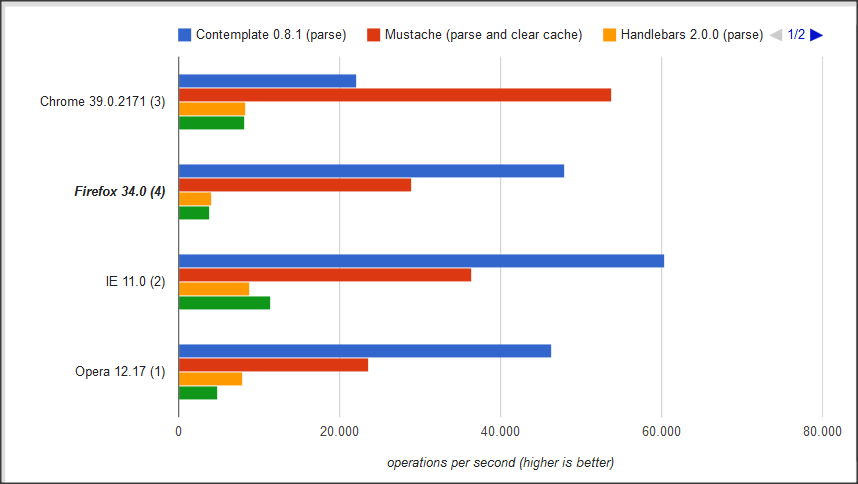
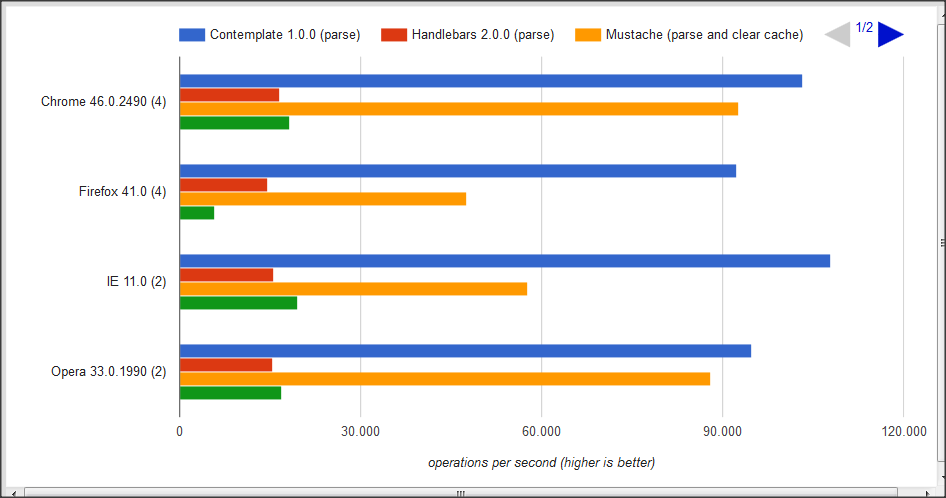
v.1.0.0, updated jsperfs

diff --git a/README.md b/README.md
@@ -171,22 +171,24 @@ The following tests were made on a revision of a 2013 jsperf test for various ja
 
 This resulted in great performance increase as shown below. (see changelog)
 
-Previous tests are here [jsperf/0.6.5](http://jsperf.com/js-template-engines-performance/94), [jsperf/0.6.7](http://jsperf.com/js-template-engines-performance/96), [jsperf/0.7](http://jsperf.com/js-template-engines-performance/112), [jsperf/0.7.1](http://jsperf.com/js-template-engines-performance/116), [jsperf/0.8](http://jsperf.com/js-template-engines-performance/117), [jsperf/0.8.1](http://jsperf.com/js-template-engines-performance/120)
+Previous tests are here [jsperf/0.6.5](http://jsperf.com/js-template-engines-performance/94), [jsperf/0.6.7](http://jsperf.com/js-template-engines-performance/96), [jsperf/0.7](http://jsperf.com/js-template-engines-performance/112), [jsperf/0.7.1](http://jsperf.com/js-template-engines-performance/116), [jsperf/0.8](http://jsperf.com/js-template-engines-performance/117), [jsperf/0.8.1](http://jsperf.com/js-template-engines-performance/120),
+[jsperf/1.0.0](http://jsperf.com/js-template-engines-performance/161)
 
-`Contemplate` (`0.8.1`) is (consistently) 1st place on almost all browsers.
+`Contemplate` (`1.0.0`) is (consistently) 1st place on all browsers.
 
-[![contemplate rendering jsperf](/screenshots/jsperf-rendering.png)](http://jsperf.com/js-template-engines-performance/120)
+[![contemplate rendering jsperf](/screenshots/jsperf-rendering.png)](http://jsperf.com/js-template-engines-performance/161)
 
 
 **Parse / Compilation Time**
 
 The following tests involve `swig`, `handlebars`, `contemplate` and `mustache` `javascript` template engines. More tests should be done.
 
-Previous tests are here [jsperf/0.6.7](http://jsperf.com/js-template-engines-compilation/3), [jsperf/0.7](http://jsperf.com/js-template-engines-compilation/7), [jsperf/0.7.1](http://jsperf.com/js-template-engines-compilation/8), [jsperf/0.8](http://jsperf.com/js-template-engines-compilation/11), [jsperf/0.8.1](http://jsperf.com/js-template-engines-compilation/12)
+Previous tests are here [jsperf/0.6.7](http://jsperf.com/js-template-engines-compilation/3), [jsperf/0.7](http://jsperf.com/js-template-engines-compilation/7), [jsperf/0.7.1](http://jsperf.com/js-template-engines-compilation/8), [jsperf/0.8](http://jsperf.com/js-template-engines-compilation/11), [jsperf/0.8.1](http://jsperf.com/js-template-engines-compilation/12),
+[jsperf/1.0.0](http://jsperf.com/js-template-engines-compilation/14)
 
-`Contemplate` engine (`0.8.1`) is (consistently) 1st place on almost all browsers.
+`Contemplate` engine (`1.0.0`) is (consistently) 1st place on all browsers.
 
-[![contemplate parse jsperf](/screenshots/jsperf-compilation.png)](http://jsperf.com/js-template-engines-compilation/12)
+[![contemplate parse jsperf](/screenshots/jsperf-compilation.png)](http://jsperf.com/js-template-engines-compilation/14)
 
 
 
